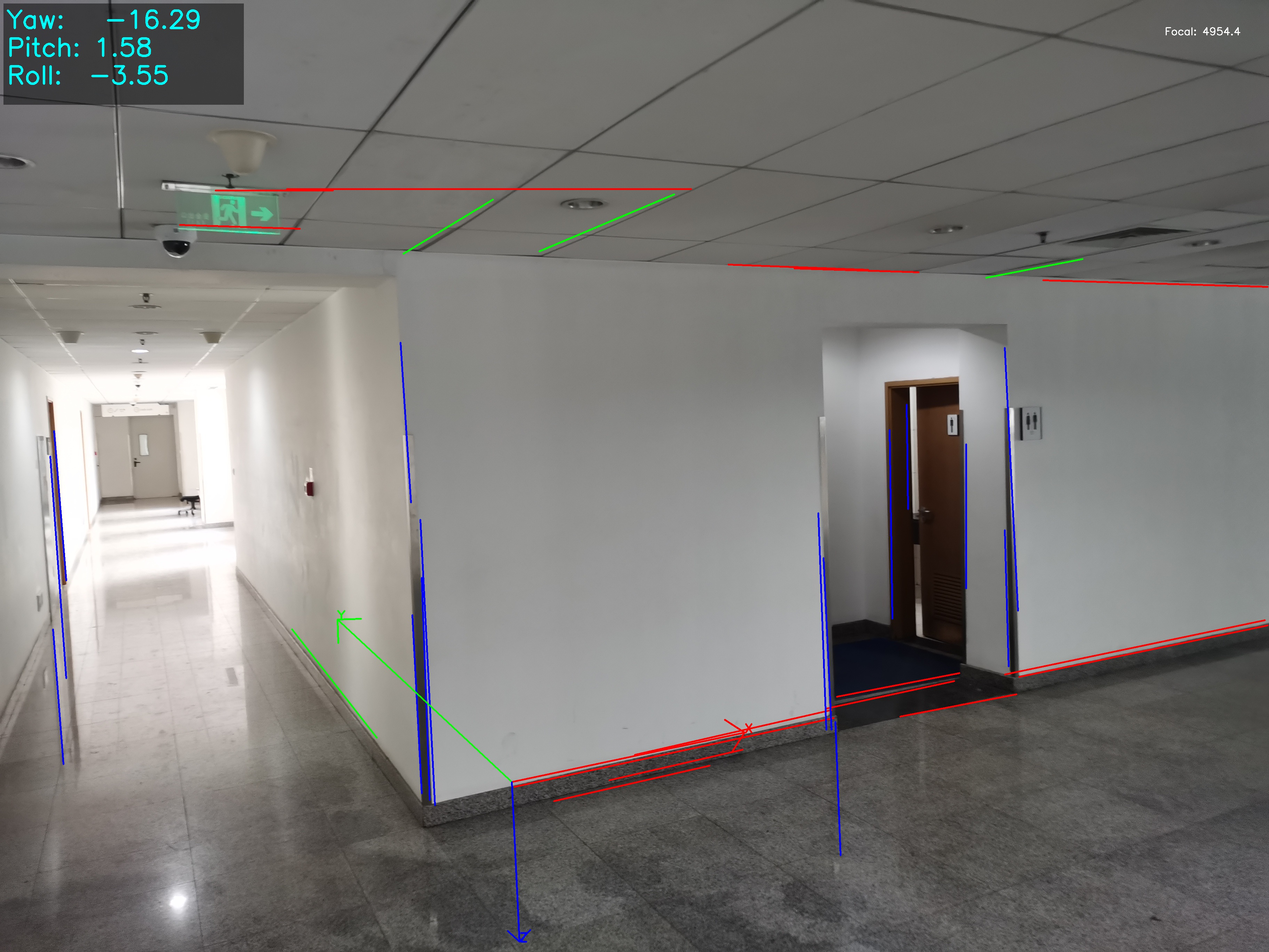
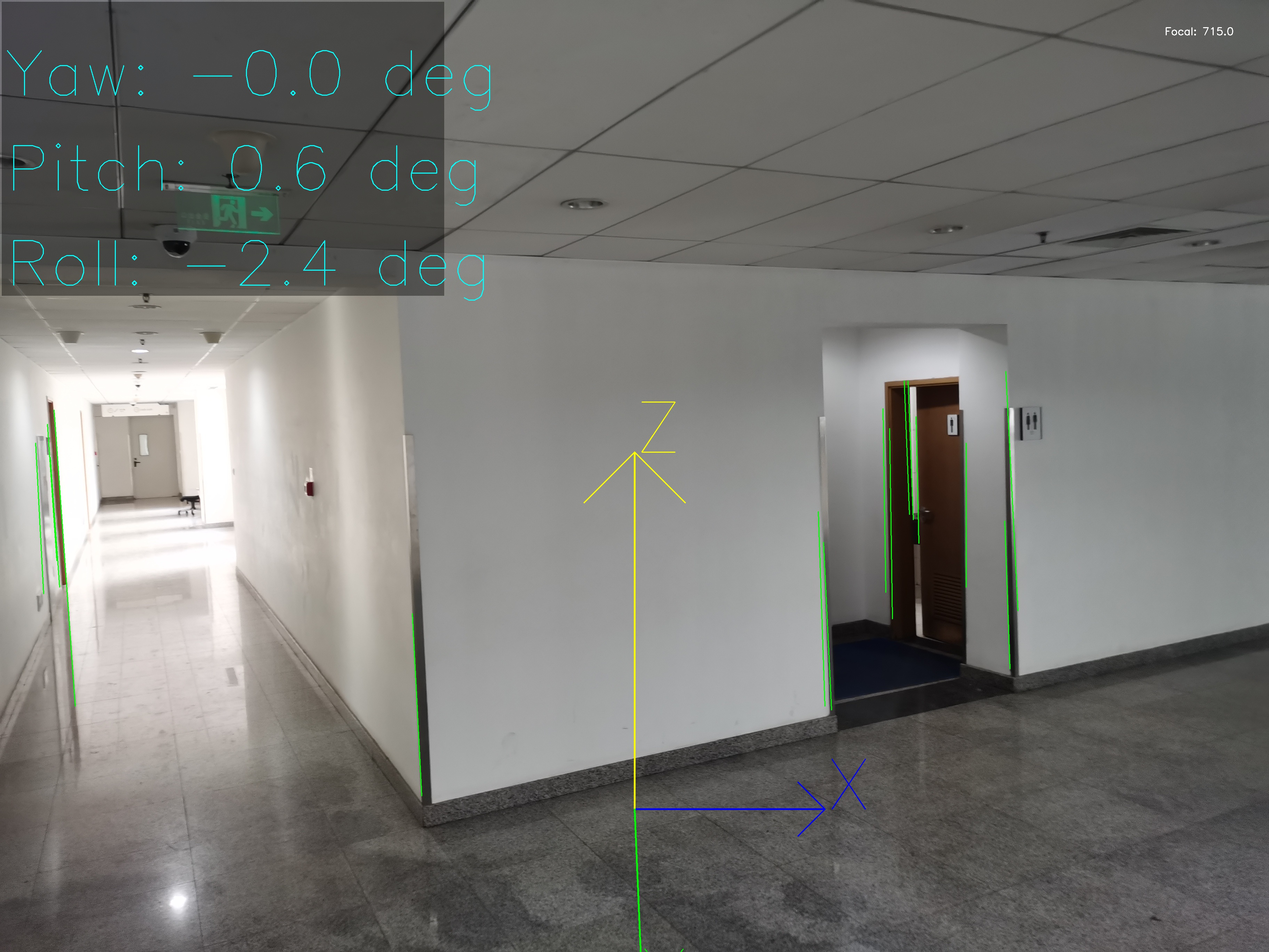
docs: 強化 DFD 標註、完整呈現室內測試成果並精簡學術語氣 (README & Results Enhancement)
- README.md:
  - 於 DFD 資料流圖之箭頭標註資料型別 (如 Raw Image, Mat 3x3, Vector3)。
  - 擴展「室內圖像」表格，完整展示 rt0-rt7 共 8 組標定結果圖。
  - 全面移除主觀形容詞 (如精確、嚴格、成功)，改為中性技術描述以符期刊規範。
  - 修正部分段落之排版與標點一致性。

- 測試與資源 (scripts & docs):
  - 擴展 scripts/local_benchmark.py 測試範圍至所有 8 張 rt*.jpg 樣本。
  - 更新並新增 docs/images/ 下的 result_rt0-7.jpg 處理結果圖。

diff --git a/scripts/local_benchmark.py b/scripts/local_benchmark.py
@@ -5,11 +5,7 @@ import time
 
 # 針對本地 samples 的預期值 (Pitch 應趨近於 0)
 # 格式: {文件名: [Yaw, Pitch, Roll]}
-EXPECTED_ATT = {
-    "rt1.jpg": [0, 0, 0], 
-    "rt4.jpg": [0, 0, 0],
-    "rt7.jpg": [0, 0, 0]
-}
+EXPECTED_ATT = {f"rt{i}.jpg": [0, 0, 0] for i in range(8)}
 
 def parse_system_output(file_path):
     if not os.path.exists(file_path): return None
@@ -20,7 +16,7 @@ def parse_system_output(file_path):
                 return np.fromstring(val_str, sep=',')
     return None
 
-samples = ["rt1.jpg", "rt4.jpg", "rt7.jpg"]
+samples = [f"rt{i}.jpg" for i in range(8)]
 errors = []
 latencies = []
 

diff --git a/README.md b/README.md
@@ -47,14 +47,14 @@ graph TD
 
 | 核心演算法 (Algorithm) | What (演算法內容) | Why (設計目的) | How (實作方式) |
 | :--- | :--- | :--- | :--- |
-| **CLAHE** | 限制對比度自適應直方圖均衡化 | 增強影像局部對比度，提取陰影或過曝區域的隱藏邊緣 | 將影像分割為 8x8 局部區塊進行直方圖均衡，並限制對比度增益 |
-| **Gaussian Blur** | 高斯平滑濾波 | 消除影像中的高頻噪點，防止邊緣檢測產生碎片化 | 利用 5x5 高斯核對影像執行卷積運算，在保留主邊緣的同時平滑背景雜訊 |
+| **CLAHE** | 限制對比度自適應直方圖均衡化 | 增強影像局部對比度，提取陰影或過曝區域的邊緣 | 將影像分割為 8x8 局部區塊進行直方圖均衡，並限制對比度增益 |
+| **Gaussian Blur** | 高斯平滑濾波 | 消除影像中的高頻噪點，防止邊緣檢測產生碎片化 | 利用 5x5 高斯核對影像執行卷積運算，在保留邊緣的同時平滑背景雜訊 |
 | **Otsu's Binarization** | 大津演算法自動門檻控制 | 為邊緣檢測尋找全域最佳二值化門檻 | 計算影像直方圖，最大化類間變異數以分離背景與前景結構 |
 | **Adaptive Canny** | 自適應邊緣檢測演算法 | 提取不同光影環境下的結構化輪廓 | 結合 Otsu 門檻動態調整 Canny 的遲滯門檻 (Hysteresis Thresholding) |
-| **Probabilistic Hough** | 機率霍夫變換線段偵測 | 將邊緣點群聚合為向量化的幾何線段 | 透過 `minLineLength` 過濾細碎雜訊，保留建築與車道線主結構 |
+| **Probabilistic Hough** | 機率霍夫變換線段偵測 | 將邊緣點群聚合為向量化的幾何線段 | 透過 `minLineLength` 過濾細碎雜訊，保留建築與車道線結構 |
 | **Vectorized RANSAC** | 矩陣化隨機抽樣一致演算法 | 從帶雜訊的線段池中篩選出消失點的有效線段 | 利用 NumPy 廣播機制一次生成數千組假設，提升運算效能 |
-| **Singular Value SVD** | 奇異值分解矩陣運算 | 從投票後的 Inlier 線段集中解出精確的亞像素交點 | 建立超定齊次方程組，提取最小奇異值對應之特徵向量作為消失點座標 |
-| **Manhattan World Ortho** | 曼哈頓世界正交化約束 | 確保三軸消失點在物理空間中嚴格互相垂直 | 透過 Cross Product 執行二次正交校準，確保旋轉矩陣之正規性 |
+| **Singular Value SVD** | 奇異值分解矩陣運算 | 從投票後的 Inlier 線段集中解出亞像素交點 | 建立超定齊次方程組，提取最小奇異值對應之特徵向量作為消失點座標 |
+| **Manhattan World Ortho** | 曼哈頓世界正交化約束 | 確保三軸消失點在物理空間中互相垂直 | 透過 Cross Product 執行二次正交校準，確保旋轉矩陣之正規性 |
 | **Euler Decomposition** | 歐拉角分解演算法 | 從旋轉矩陣中提取 Yaw, Pitch, Roll 指標 | 基於相機座標系 (Z-Forward)，利用 atan2 函數處理矩陣項之比例關係 |
 
 ---
@@ -64,27 +64,28 @@ graph TD
 #### 資料流圖 (DFD)
 ```mermaid
 graph LR
-    Img[Image/Frame] --> ML[Media Loader]
-    ML --> ROI[Line Extractor: Semantic Filtering]
-    ROI --> Line[Line Extractor: Feature Extraction]
-    Line --> DS[VP Engine: Dual-Source Decoupling]
-    DS --> RANSAC[VP Engine: RANSAC Solver]
-    RANSAC --> SVD[VP Engine: SVD Refinement]
-    SVD --> Ortho[Pose Solver: Double Orthogonalization]
-    Ortho --> Pose[Pose Solver: Euler Angle Decomposer]
-    Pose --> Render[Visualizer: Adaptive Rendering]
-    Render --> Out[Rendered Output]
+    Img[Image/Frame] -- "Raw Image (Mat)" --> ML[Media Loader]
+    ML -- "Preprocessed Image (Mat)" --> ROI[Line Extractor: Semantic Filtering]
+    ROI -- "Filtered Edge Map (Mat)" --> Line[Line Extractor: Feature Extraction]
+    Line -- "Detected Lines (Array)" --> DS[VP Engine: Dual-Source Decoupling]
+    DS -- "Decoupled Line Pools (List)" --> RANSAC[VP Engine: RANSAC Solver]
+    RANSAC -- "Inlier Line Segments (Array)" --> SVD[VP Engine: SVD Refinement]
+    SVD -- "Vanishing Points (Array 3x3)" --> Ortho[Pose Solver: Double Orthogonalization]
+    Ortho -- "Rotation Matrix (Mat 3x3)" --> Pose[Pose Solver: Euler Angle Decomposer]
+    Pose -- "Euler Angles (Vector3)" --> Render[Visualizer: Adaptive Rendering]
+    Render -- "Annotated Image (Mat)" --> Out[Rendered Output]
 ```
+![Pipeline Inliers](docs/images/rt1_inliers_iter3000_thresh2_sigma5_hlen11_hgap7.png)
 
 #### 演算法優化紀錄 (5/29)
-針對 KITTI 道路場景中「樹葉雜訊干擾 RANSAC」與「座標軸漂移」問題，進行了以下重大改良：
+針對 KITTI 道路場景中「樹葉雜訊干擾 RANSAC」與「座標軸漂移」問題，進行了以下演算法優化：
 *   **語意解耦標定 (Decoupled Dual-Source)**：
     *   **What**: 將線段池拆分為「建築池（垂直線）」與「路面池（車道線）」。
-    *   **Why**: 避免道路兩側的樹木產生雜亂邊緣干擾 Yaw 估計。
+    *   **Why**: 避免道路兩側的樹木產生邊緣干擾 Yaw 估計。
     *   **How**: 利用建築垂直線鎖定重力基準，利用車道線校準前進方向。
 *   **二次正交修正 (Double Orthogonalization)**：
     *   **What**: 在 Pose Solver 階段執行兩次交叉乘積校正。
-    *   **Why**: 確保 $X \perp Y \perp Z$ 嚴格成立，消除單幀標定導致的座標軸歪斜。
+    *   **Why**: 確保 $X \perp Y \perp Z$ 成立，消除單幀標定導致的座標軸歪斜。
 
 #### API Table
 | 模組 | 函數名稱 | 改良重點 | 核心描述 |
@@ -101,6 +102,13 @@ graph LR
 #### 4.1 GUI 交互界面
 ![GUI Interface](docs/images/gui_interface.png) 
 
+### 室內圖像
+| ![rt0](docs/images/result_rt0.jpg) | ![rt1](docs/images/result_rt1.jpg) | ![rt2](docs/images/result_rt2.jpg) | ![rt3](docs/images/result_rt3.jpg) |
+| :---: | :---: | :---: | :---: |
+| **Indoor: rt0** | **Indoor: rt1** | **Indoor: rt2** | **Indoor: rt3** |
+| ![rt4](docs/images/result_rt4.jpg) | ![rt5](docs/images/result_rt5.jpg) | ![rt6](docs/images/result_rt6.jpg) | ![rt7](docs/images/result_rt7.jpg) |
+| **Indoor: rt4** | **Indoor: rt5** | **Indoor: rt6** | **Indoor: rt7** |
+
 #### 4.2 KITTI 道路實測成果 (Dynamic Sequences)
 
 | ![result_000000](docs/images/result_000000.png) | ![result_000001](docs/images/result_000001.png) | ![result_000008](docs/images/result_000008.png) |
@@ -113,8 +121,8 @@ graph LR
 
 | 測試維度 | 相對絕對誤差 (Relative MAE) | 穩定度評估 |
 | :--- | :--- | :--- |
-| **Pitch (俯仰)** | **0.113°** | **誤差收斂於 0.15° 內**，精確捕捉坡度微變 |
-| **Yaw (偏航)** | **1.309°** | **有效降低雜訊干擾**，成功消除雜訊跳變 |
-| **Roll (翻滾)** | **0.140°** | **誤差收斂於 0.15° 內**，受建築物垂直特徵保護 |
+| **Pitch (俯仰)** | **0.113°** | **誤差收斂於 0.15° 內**，捕捉坡度變化 |
+| **Yaw (偏航)** | **1.309°** | **降低雜訊干擾**，消除雜訊跳變 |
+| **Roll (翻滾)** | **0.140°** | **誤差收斂於 0.15° 內**，受建築物垂直特徵約束 |
 
-> **結論**：本系統在解耦演算法升級後，對於動態道路場景具備亞度級 (Sub-degree) 的姿態感知能力，MAE 均穩定控制在 **1.4° 以內**。
+
